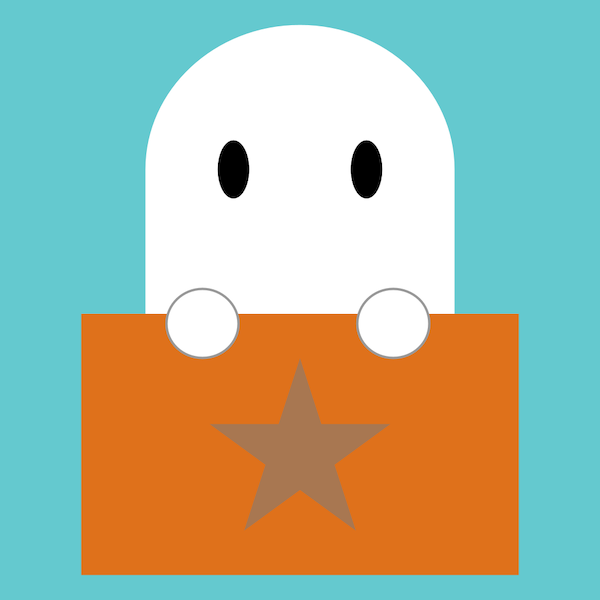
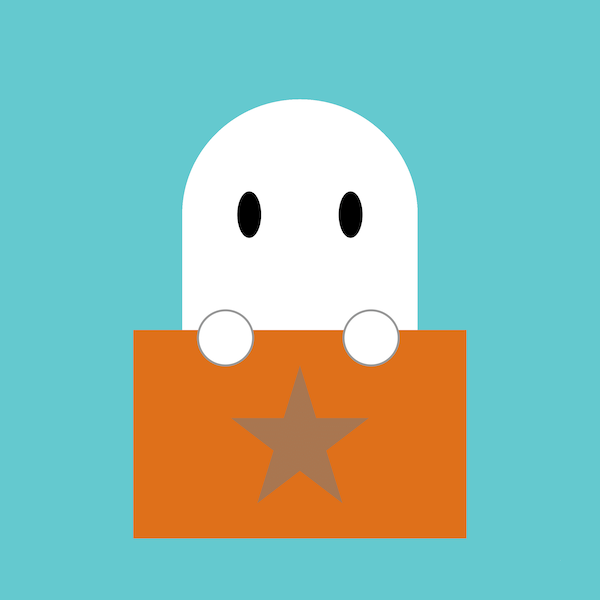
feat: タイトル設定 & PWA用の画像修正

Changed region(s): [[0.12, 0.03, 0.87, 0.96]]

diff --git a/nuxt.config.js b/nuxt.config.js
@@ -41,6 +41,17 @@ export default {
 
   axios: {},
 
+  pwa: {
+    manifest: {
+      name: 'ヨッチー',
+      short_name: 'ヨッチー',
+      description: 'ヨッチーはあなたの代わりにお題を考えるサービスです',
+      background_color: '#64C9CF',
+      theme_color: '#64C9CF',
+      lang: 'ja'
+    }
+  },
+
   vuetify: {
     customVariables: ['~/assets/variables.scss'],
     treeShake: true,
